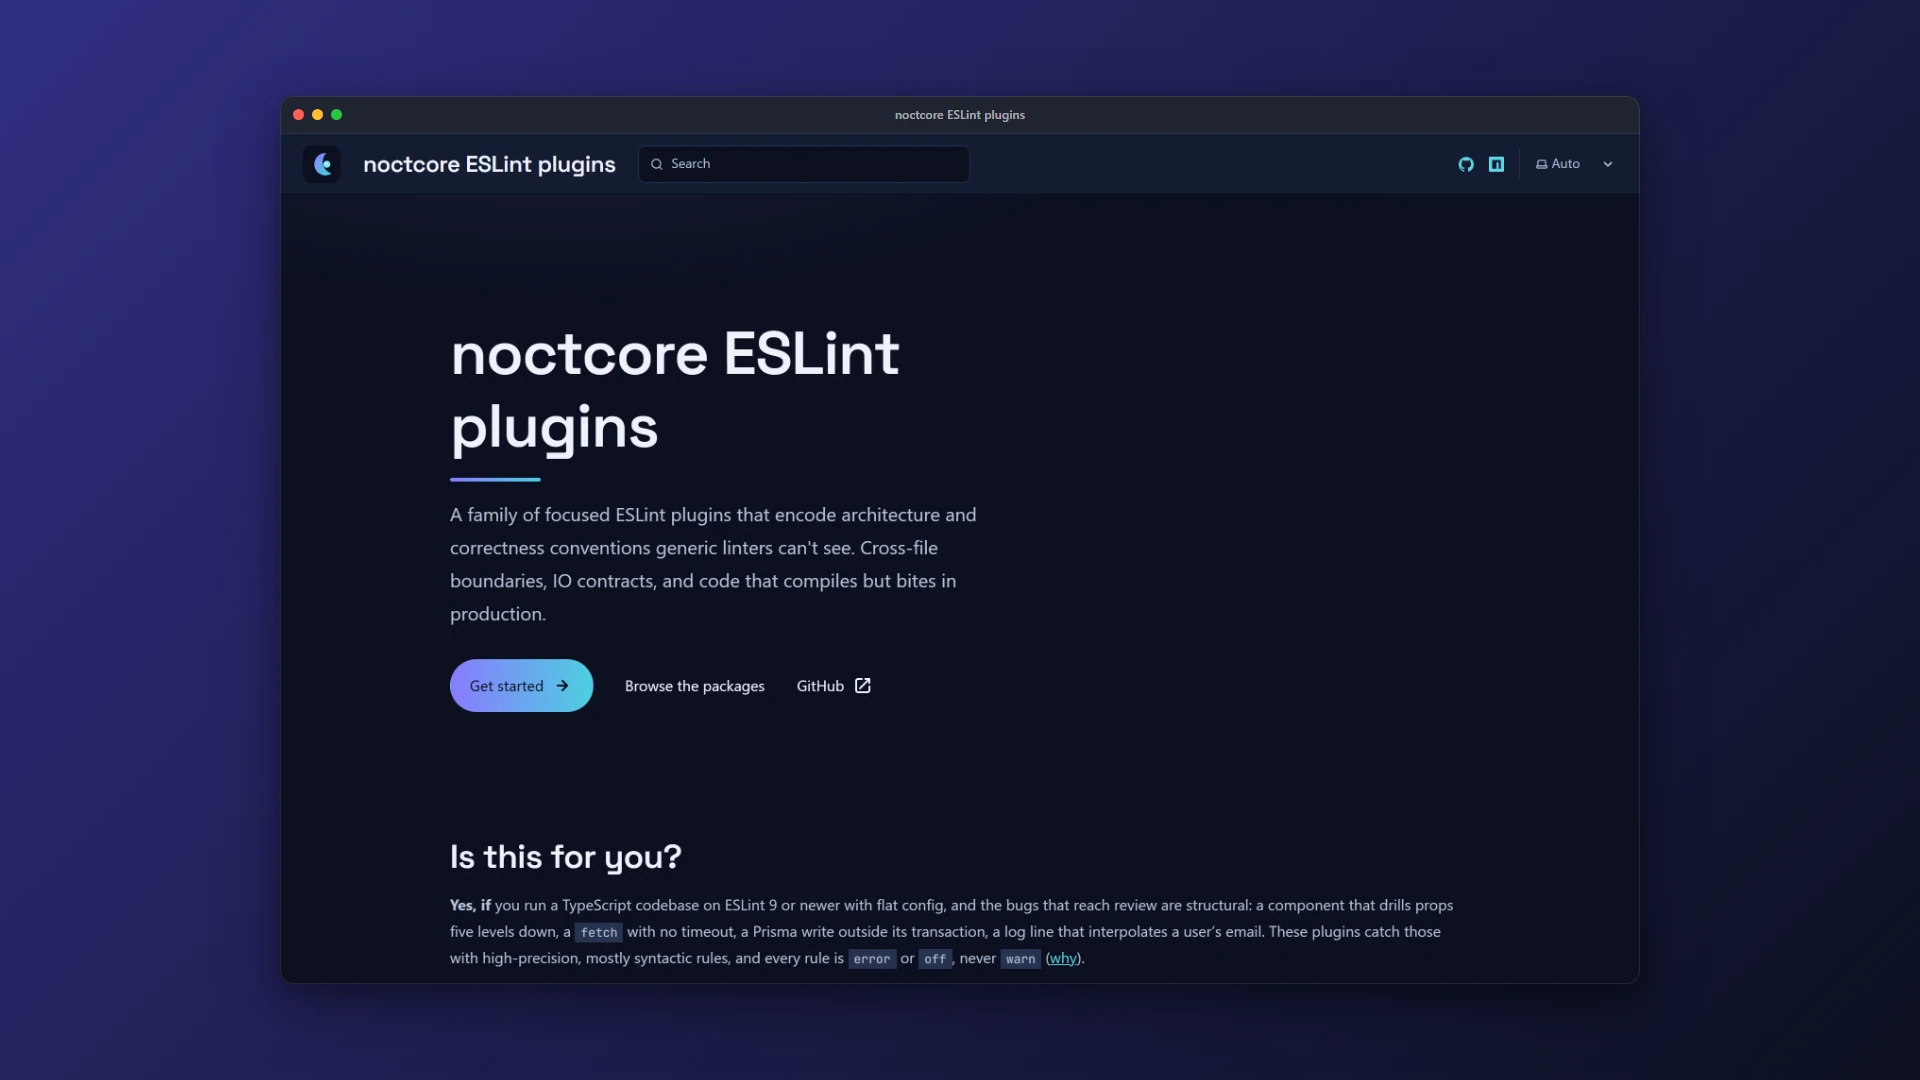
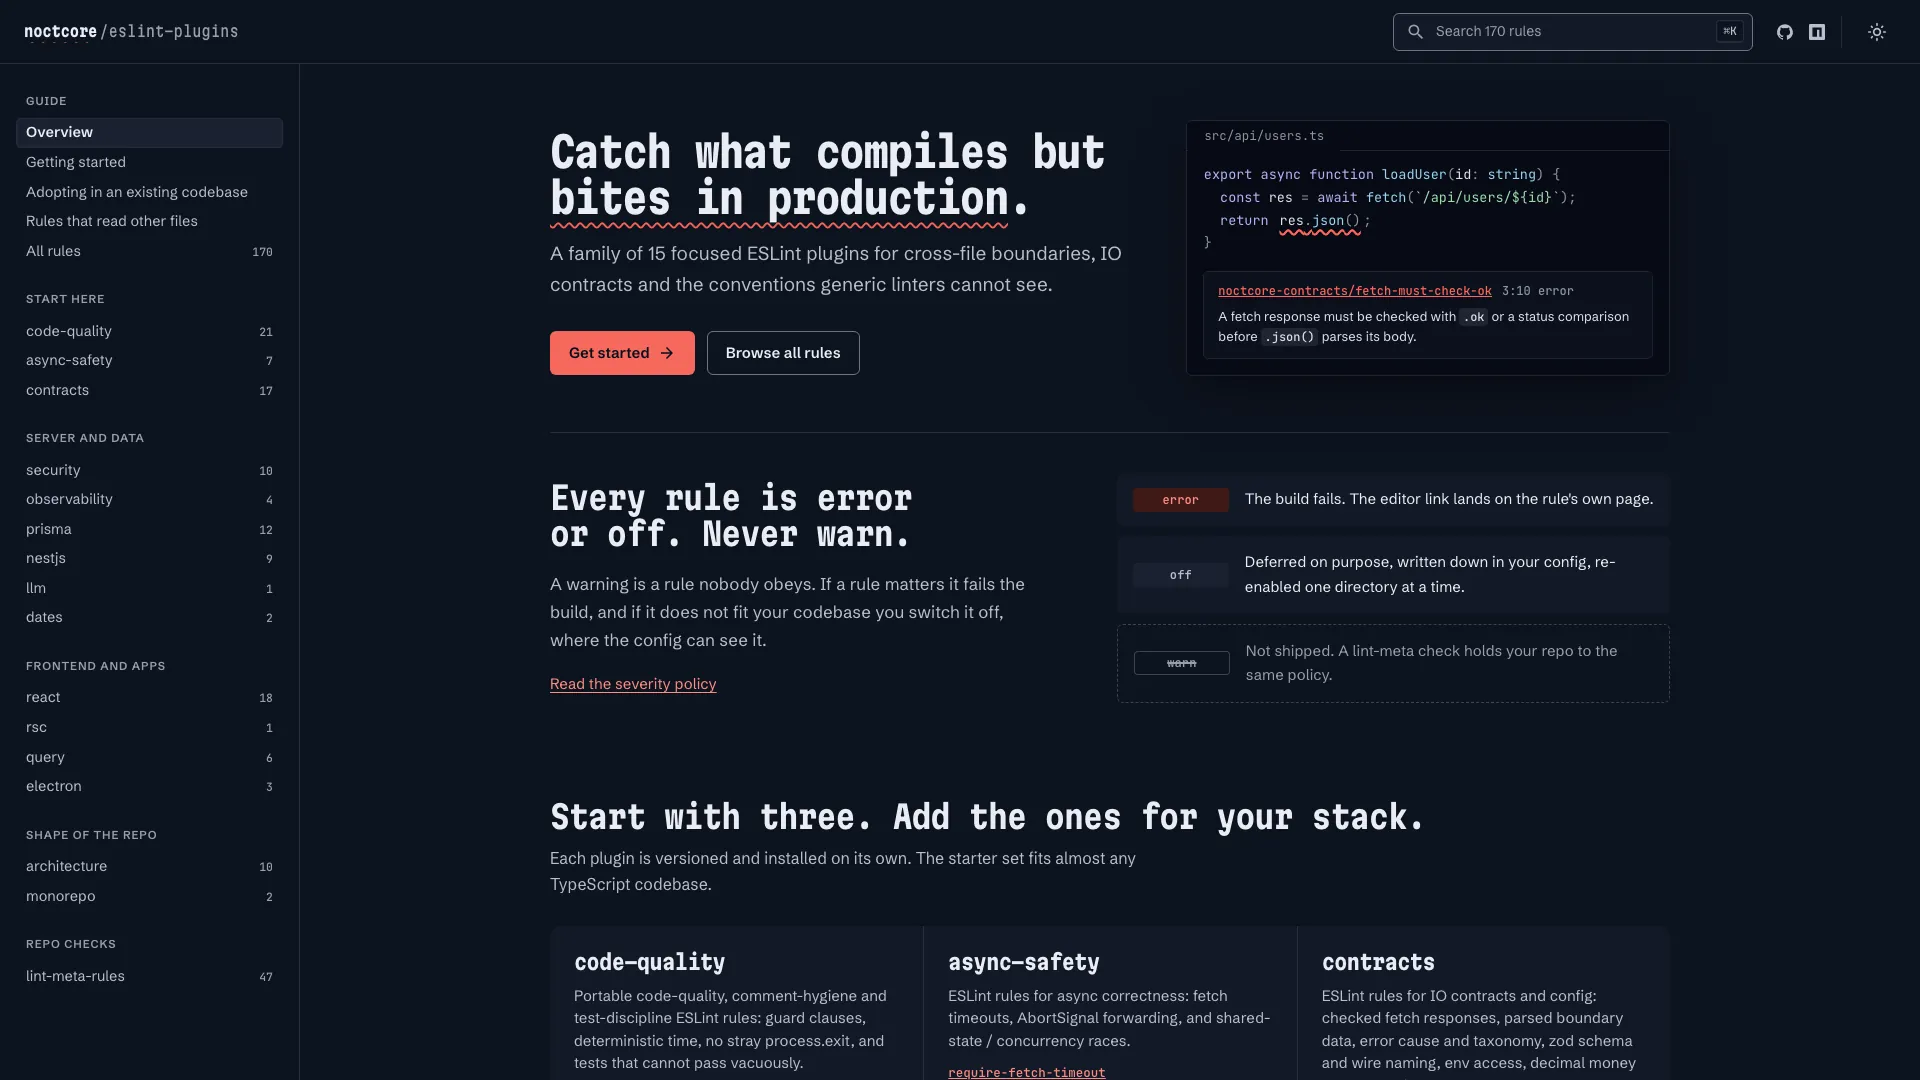
feat(projects): refresh the eslint plugins text and docs pictures

diff --git a/src/data/projects/eslint-plugins.ts b/src/data/projects/eslint-plugins.ts
@@ -5,11 +5,11 @@ export const eslintPlugins: Project = {
   slug: 'eslint-plugins',
   title: '@noctcore/eslint-plugins',
   summary:
-    'A family of focused ESLint plugins for the mistakes generic linters miss: cross-file boundaries, IO contracts and code that compiles but breaks in production. 13 packages, 110+ rules.',
+    'A family of focused ESLint plugins for the mistakes generic linters miss: cross-file boundaries, IO contracts and code that compiles but breaks in production. 15 plugins, 170 rules.',
   description: [
     'I kept finding the same classes of bugs in code review: fetch calls without timeouts, boundary data used without parsing, swallowed navigation errors, Prisma writes that skip tenant scoping. None of them are type errors, and the usual lint configs do not catch them. These plugins encode those checks as rules.',
-    'The repository publishes 13 packages: eleven ESLint plugins (code quality, async safety, contracts, security, observability, React, React Server Components, LLM output handling, Prisma, architecture and monorepo boundaries), a shared utility package the rules are built on, and a set of whole-repo meta rules. Together they ship more than 110 rules.',
-    'Each plugin is flat-config only, has a zero-config recommended preset, and is versioned and installed on its own. Every rule has documentation with options, examples and a note on when the plugin is a bad fit.',
+    'The repository publishes fifteen ESLint plugins (code quality, async safety, contracts, security, observability, React, React Server Components, LLM output handling, NestJS and BullMQ, TanStack Query, Electron, dates, Prisma, architecture and monorepo boundaries), a shared utility package the rules are built on, and a set of whole-repo meta rules. The docs site lists 170 rules.',
+    'Each plugin is flat-config only, has a zero-config recommended preset, and is versioned and installed on its own. Every rule is error or off, never warn. The docs site has a page per rule with why it exists, what it flags, incorrect and correct examples, its options and when not to use it, plus guides for adopting the plugins in an existing codebase and for the rules that read other files.',
   ],
   image: '/projects/eslint-plugins/thumbnail.webp',
   projectType: 'library',
@@ -34,10 +34,10 @@ export const eslintPlugins: Project = {
   ],
   technologies: ['TypeScript', 'ESLint', 'typescript-eslint', 'Vitest'],
   features: [
-    '11 ESLint plugins plus shared utilities and whole-repo meta rules',
-    'More than 110 rules, each with documentation and examples',
+    '15 ESLint plugins plus shared utilities and whole-repo meta rules',
+    '170 rules, each with its own documentation page and examples',
     'Starter set for any TypeScript codebase: code-quality, async-safety, contracts',
-    'Stack-specific plugins for React, React Server Components, Prisma and monorepos',
+    'Stack-specific plugins for React, React Server Components, TanStack Query, NestJS, Electron, Prisma and monorepos',
     'Security rules for shell injection, path traversal, SSRF, open redirects and XSS',
     'Flat config only, ESLint 9+, zero-config presets',
     'Each package versioned and installed independently',
